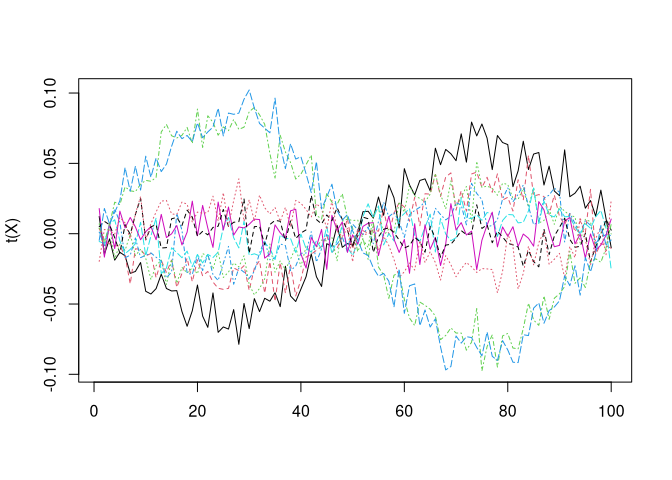
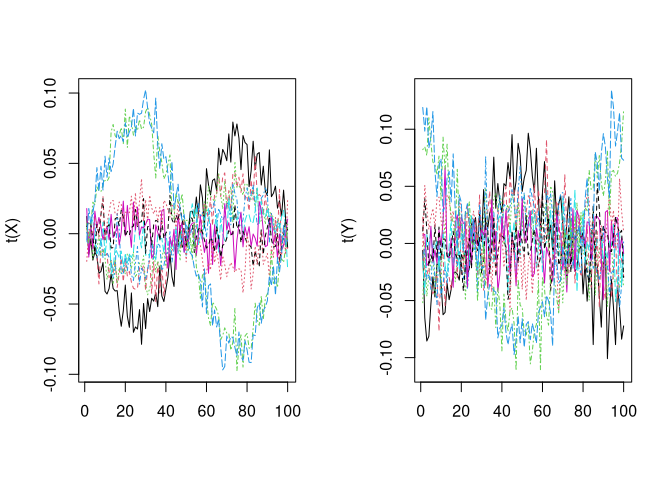
9:12

diff --git a/README.md b/README.md
@@ -19,7 +19,7 @@ remotes::install_github("mobinapourmoshir/SSFPC")
     ## Downloading GitHub repo mobinapourmoshir/SSFPC@HEAD
 
     ## ── R CMD build ─────────────────────────────────────────────────────────────────
-    ##      checking for file ‘/tmp/Rtmpb4CX8T/remotes1baecf650c7465/mobinapourmoshir-SSFPC-2dca5a2/DESCRIPTION’ ...  ✔  checking for file ‘/tmp/Rtmpb4CX8T/remotes1baecf650c7465/mobinapourmoshir-SSFPC-2dca5a2/DESCRIPTION’
+    ##      checking for file ‘/tmp/RtmpamkLI0/remotes1bb03f6e63593/mobinapourmoshir-SSFPC-1f406e4/DESCRIPTION’ ...  ✔  checking for file ‘/tmp/RtmpamkLI0/remotes1bb03f6e63593/mobinapourmoshir-SSFPC-1f406e4/DESCRIPTION’
     ##   ─  preparing ‘SSFPC’:
     ##    checking DESCRIPTION meta-information ...  ✔  checking DESCRIPTION meta-information
     ##   ─  checking for LF line-endings in source and make files and shell scripts
@@ -48,6 +48,7 @@ data_sin <- function(){
   ind <- which.max(abs(u)); u <- sign(u[ind])*u
   X <- u%*%t(v1)+rnorm(length(u)*length(v1),sd=sig)
   Y <- u%*%t(v2)+rnorm(length(u)*length(v1),sd=0.02)
+  par(mfrow = c(1,2))
   matplot(t(X), type = 'l')
   matplot(t(Y), type = 'l')
   
@@ -60,7 +61,7 @@ data_sin <- function(){
 Simulated_data <- data_sin()
 ```
 
-![](README_files/figure-gfm/example-1.png)<!-- -->![](README_files/figure-gfm/example-2.png)<!-- -->
+![](README_files/figure-gfm/example-1.png)<!-- -->
 
 Let’s see the results!
 
